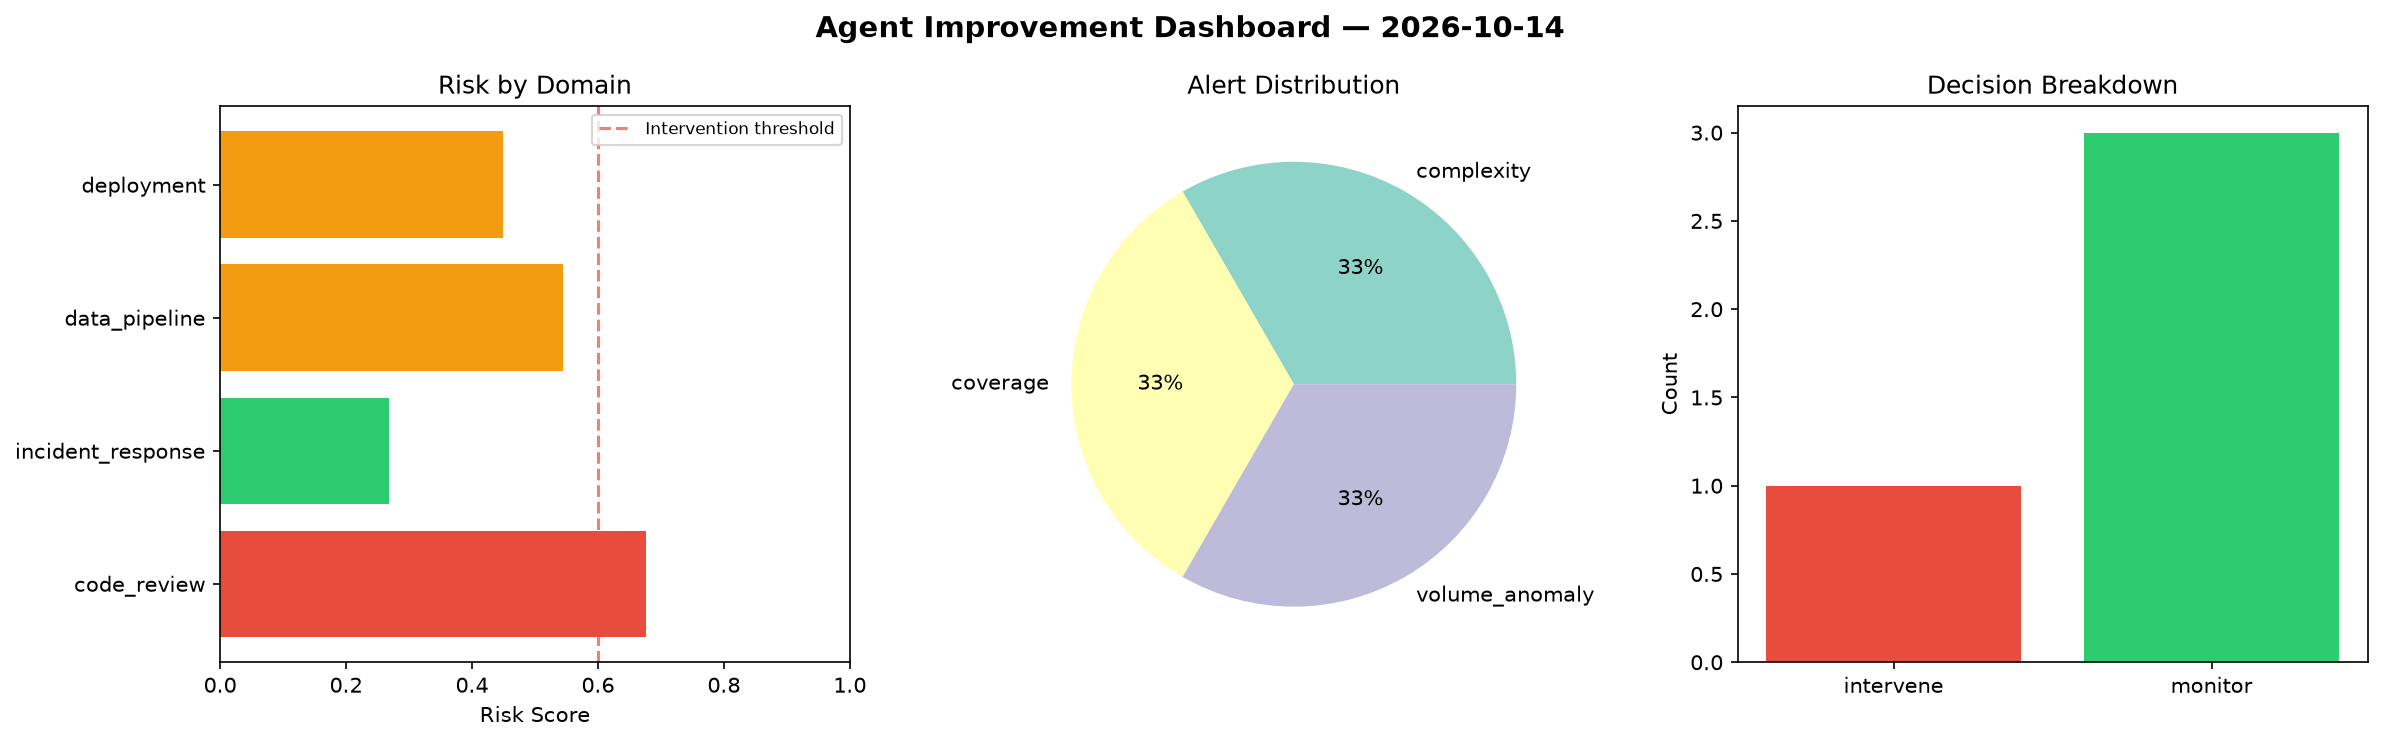
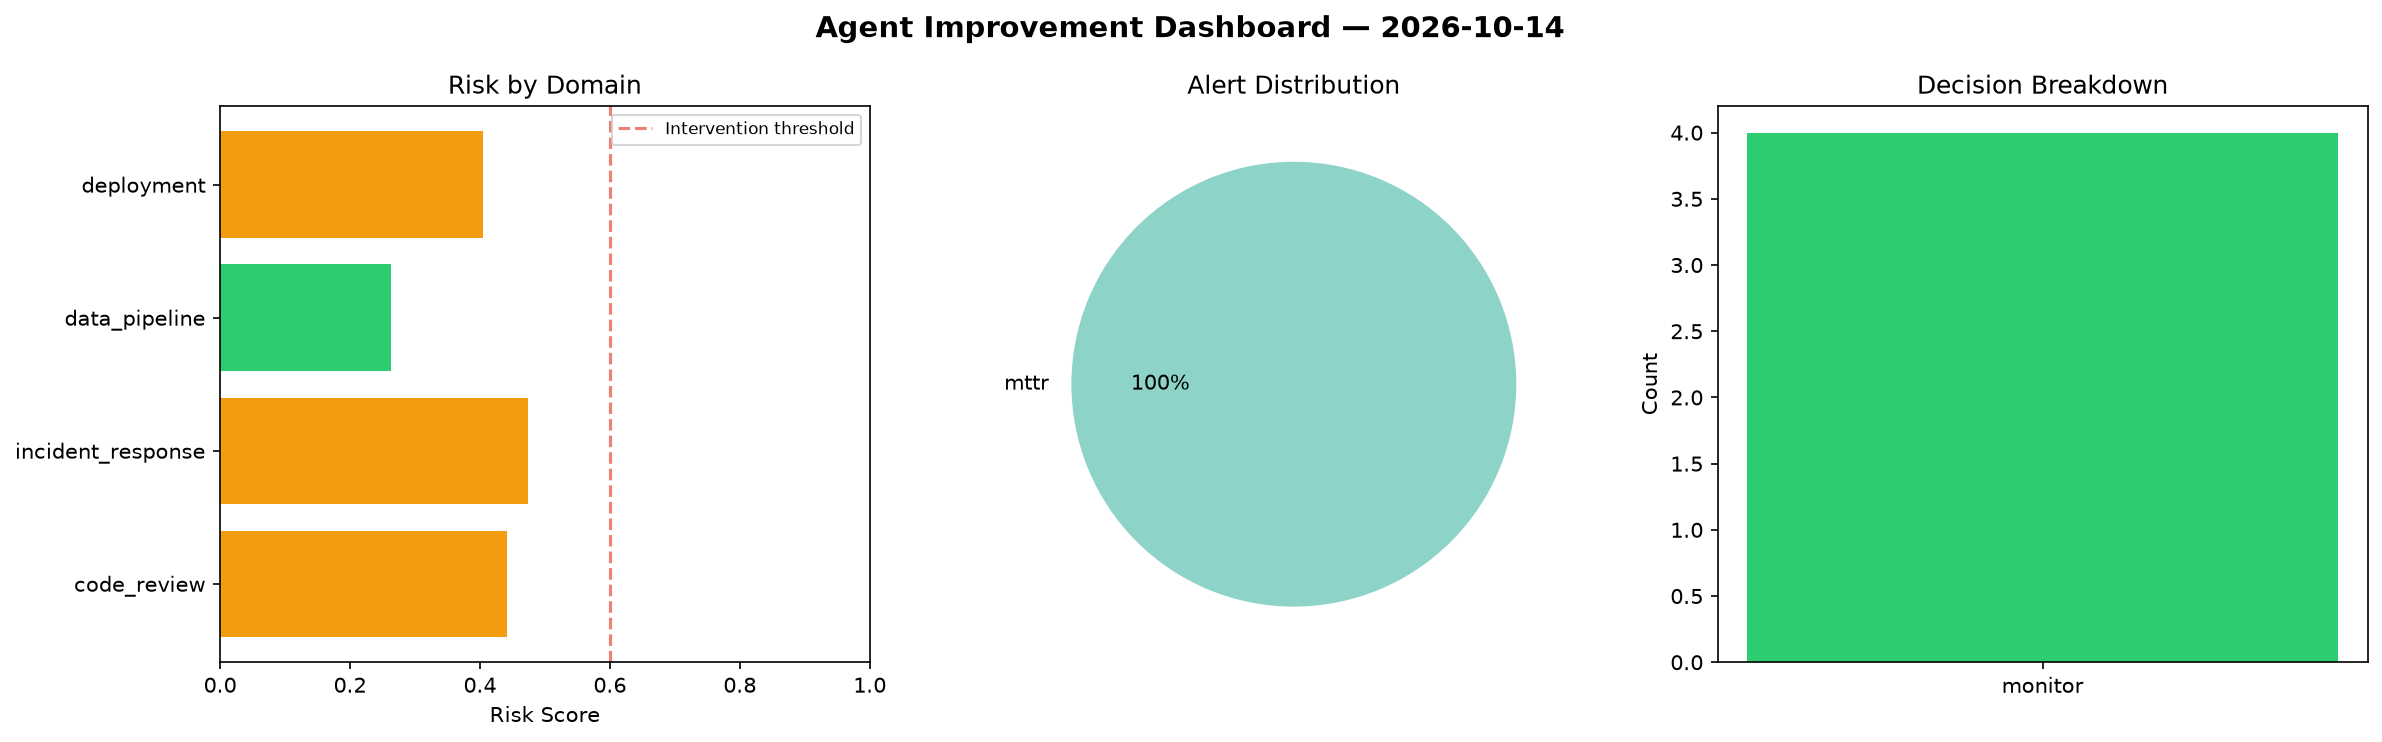
agent-improvement: daily cycle 2026-10-14T23:11

diff --git a/logs/2026-10-14.md b/logs/2026-10-14.md
@@ -1,6 +1,6 @@
 # Agent Improvement Report — 2026-10-14
 
-**Cycle ID:** `c617589e` | **Avg Risk:** 0.4844 | **Interventions:** 1/4
+**Cycle ID:** `5c4de883` | **Avg Risk:** 0.3955 | **Interventions:** 0/4
 
 ![Dashboard](2026-10-14_dashboard.png)
 
@@ -10,18 +10,18 @@
 
 | Domain | Risk Score | Decision | Alerts |
 |--------|-----------|----------|--------|
-| code_review | 0.6761 | intervene | complexity, coverage |
-| incident_response | 0.2677 | monitor | none |
-| data_pipeline | 0.5451 | monitor | volume_anomaly |
-| deployment | 0.4486 | monitor | none |
+| code_review | 0.4414 | monitor | none |
+| incident_response | 0.4733 | monitor | mttr |
+| data_pipeline | 0.2624 | monitor | none |
+| deployment | 0.4049 | monitor | none |
 
 ## Delta vs Yesterday
 
 | Domain | Today | Yesterday | Change |
 |--------|-------|-----------|--------|
-| code_review | 0.6761 | 0.4041 | 📈 67.3% |
-| incident_response | 0.2677 | 0.4614 | 📉 -42.0% |
-| data_pipeline | 0.5451 | 0.7066 | 📉 -22.9% |
-| deployment | 0.4486 | 0.5609 | 📉 -20.0% |
+| code_review | 0.4414 | 0.4041 | 📈 9.2% |
+| incident_response | 0.4733 | 0.4614 | 📈 2.6% |
+| data_pipeline | 0.2624 | 0.7066 | 📉 -62.9% |
+| deployment | 0.4049 | 0.5609 | 📉 -27.8% |
 
 **Refinement:** `{'adjustment': 'maintain', 'trend': 'improving', 'window': 4}`
